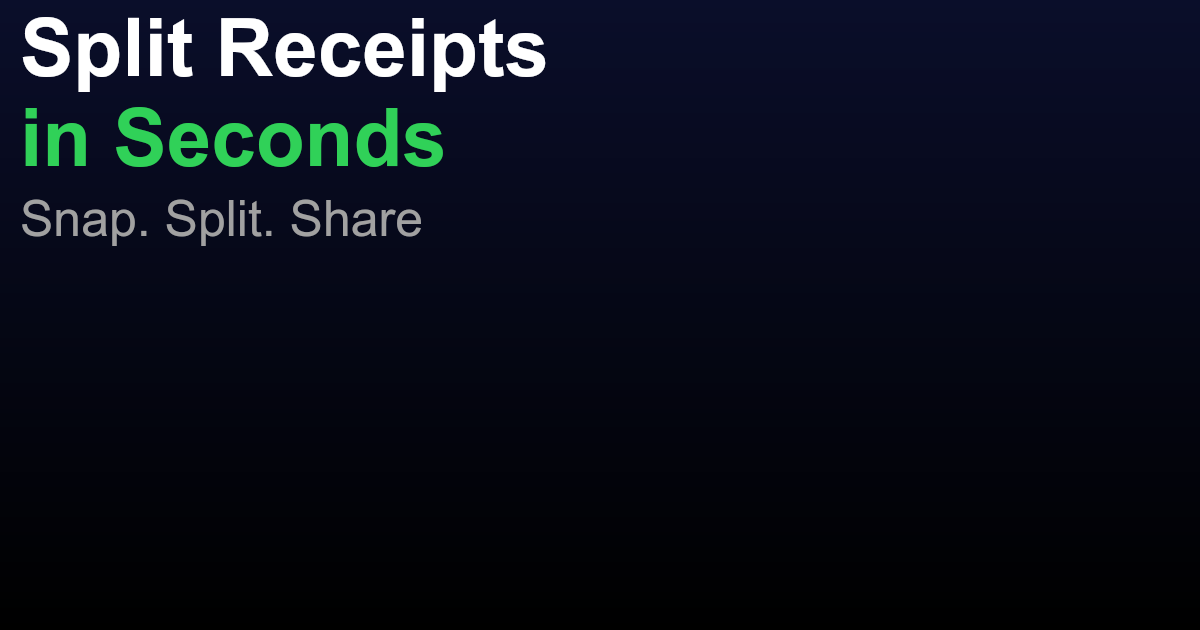
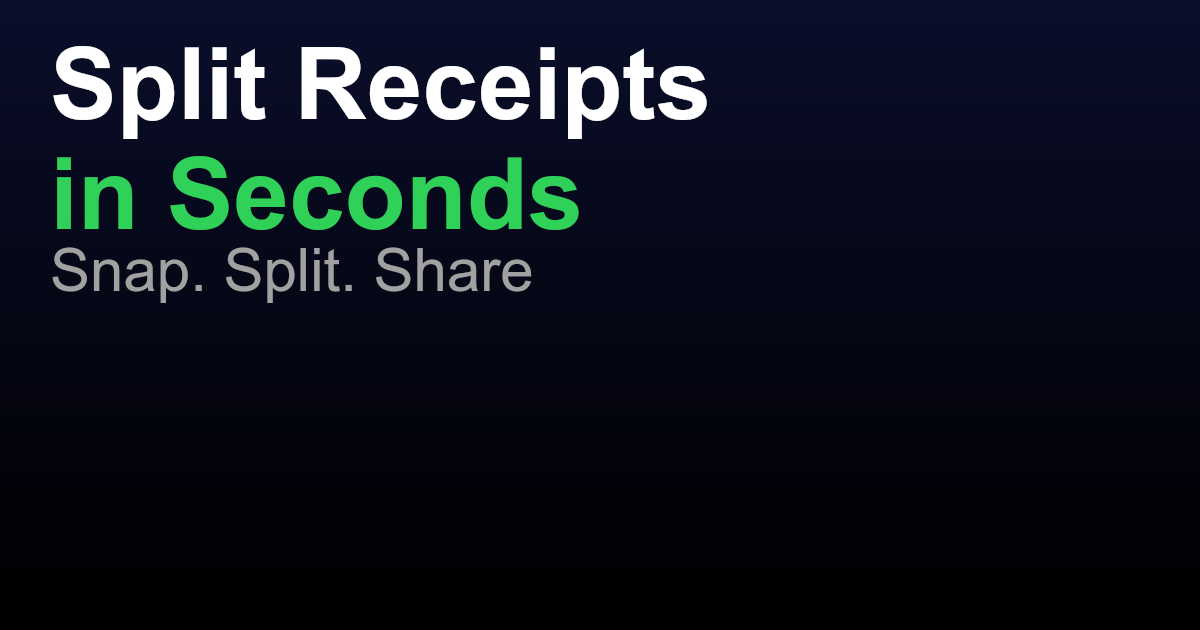
11: Added padding

Changed region(s): [[0.0, 0.0302, 0.5858, 0.4825]]

diff --git a/scripts/generate-og-image.js b/scripts/generate-og-image.js
@@ -5,7 +5,7 @@ var fs = require("fs");
 var path = require("path");
 var width = 1200;
 var height = 630;
-var padding = 20;
+var padding = 50; // Increased padding to 50px for more breathing room
 var canvas = (0, canvas_1.createCanvas)(width, height);
 var context = canvas.getContext("2d");
 // Background gradient (dark blue to black)
@@ -15,7 +15,7 @@ gradient.addColorStop(1, "#000000");
 context.fillStyle = gradient;
 context.fillRect(0, 0, width, height);
 // Heading: "Split Receipts in Seconds" over two lines
-context.font = "bold 80px Arial"; // Use Arial (default font)
+context.font = "bold 100px Arial";
 context.textAlign = "left";
 context.textBaseline = "top";
 // First part: "Split Receipts" in white
@@ -25,12 +25,12 @@ context.fillText(splitReceiptsText, padding, padding);
 // Second part: "in Seconds" in iOS system green (#30D158)
 context.fillStyle = "#30D158";
 var inSecondsText = "in Seconds";
-var lineHeight = 90;
+var lineHeight = 110;
 context.fillText(inSecondsText, padding, padding + lineHeight);
 // Subheading: "Snap. Split. Share" in secondary color (light gray)
-context.font = "50px Arial"; // Use Arial (default font)
+context.font = "60px Arial";
 context.fillStyle = "#A1A1A1";
-context.fillText("Snap. Split. Share", padding, padding + lineHeight * 2);
+context.fillText("Snap. Split. Share", padding, padding + lineHeight * 1.8);
 // Save the image
 try {
     var buffer = canvas.toBuffer("image/png");

diff --git a/scripts/generate-og-image.ts b/scripts/generate-og-image.ts
@@ -4,7 +4,7 @@ import * as path from "path";
 
 const width: number = 1200;
 const height: number = 630;
-const padding: number = 20;
+const padding: number = 50; // Increased padding to 50px for more breathing room
 
 const canvas = createCanvas(width, height);
 const context = canvas.getContext("2d");
@@ -17,7 +17,7 @@ context.fillStyle = gradient;
 context.fillRect(0, 0, width, height);
 
 // Heading: "Split Receipts in Seconds" over two lines
-context.font = "bold 80px Arial"; // Use Arial (default font)
+context.font = "bold 100px Arial";
 context.textAlign = "left";
 context.textBaseline = "top";
 
@@ -29,13 +29,13 @@ context.fillText(splitReceiptsText, padding, padding);
 // Second part: "in Seconds" in iOS system green (#30D158)
 context.fillStyle = "#30D158";
 const inSecondsText = "in Seconds";
-const lineHeight = 90;
+const lineHeight = 110;
 context.fillText(inSecondsText, padding, padding + lineHeight);
 
 // Subheading: "Snap. Split. Share" in secondary color (light gray)
-context.font = "50px Arial"; // Use Arial (default font)
+context.font = "60px Arial";
 context.fillStyle = "#A1A1A1";
-context.fillText("Snap. Split. Share", padding, padding + lineHeight * 2);
+context.fillText("Snap. Split. Share", padding, padding + lineHeight * 1.8);
 
 // Save the image
 try {
